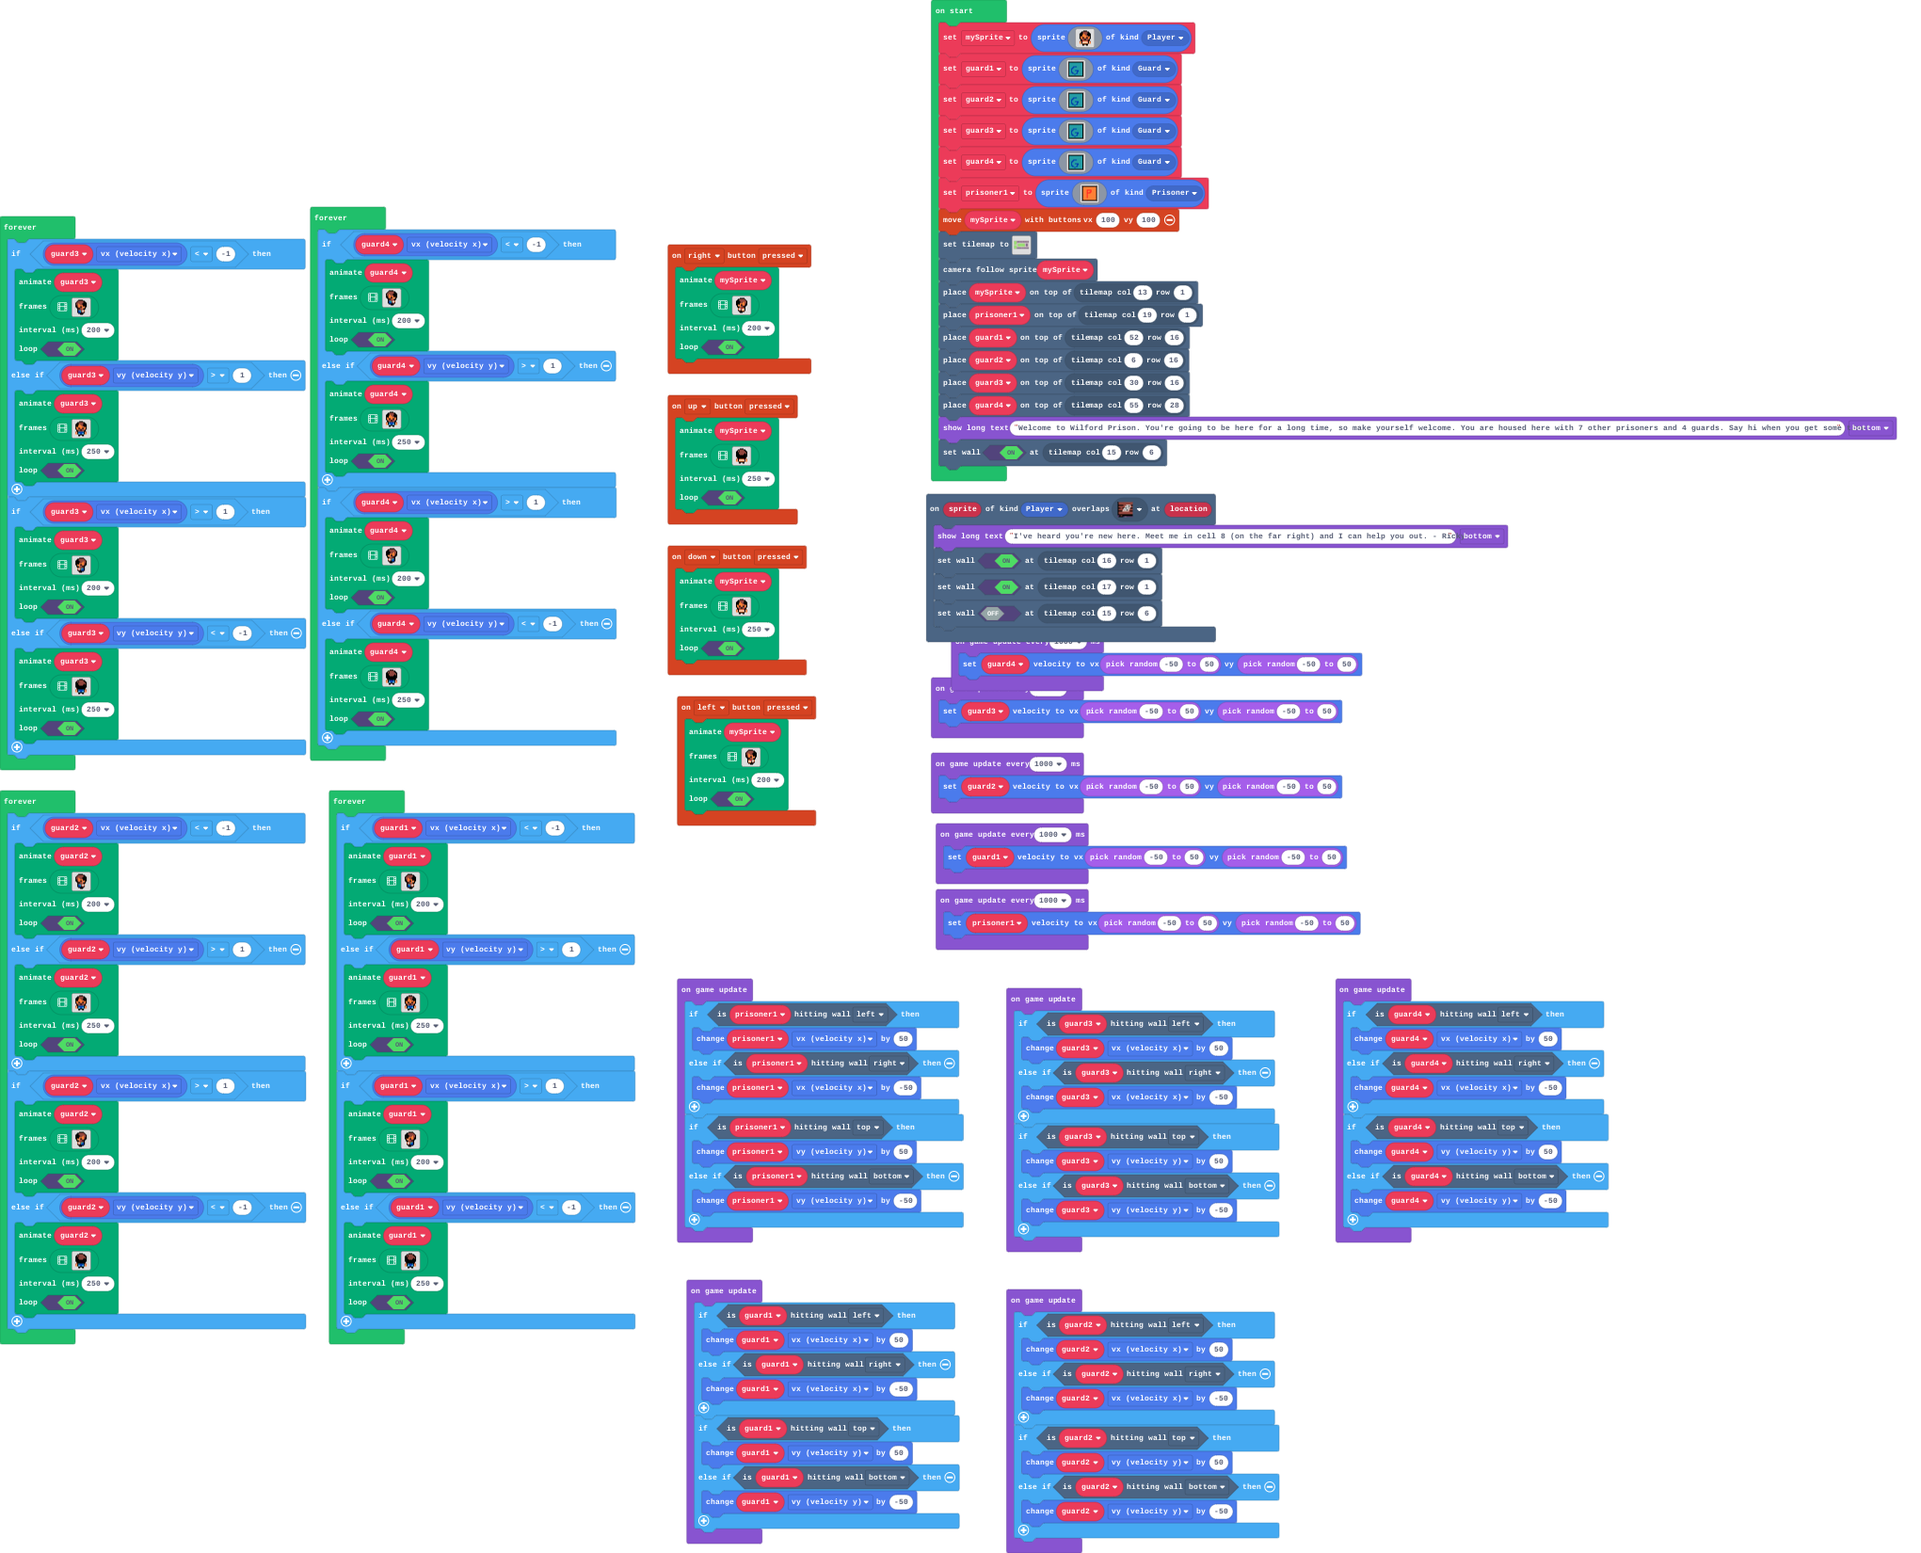
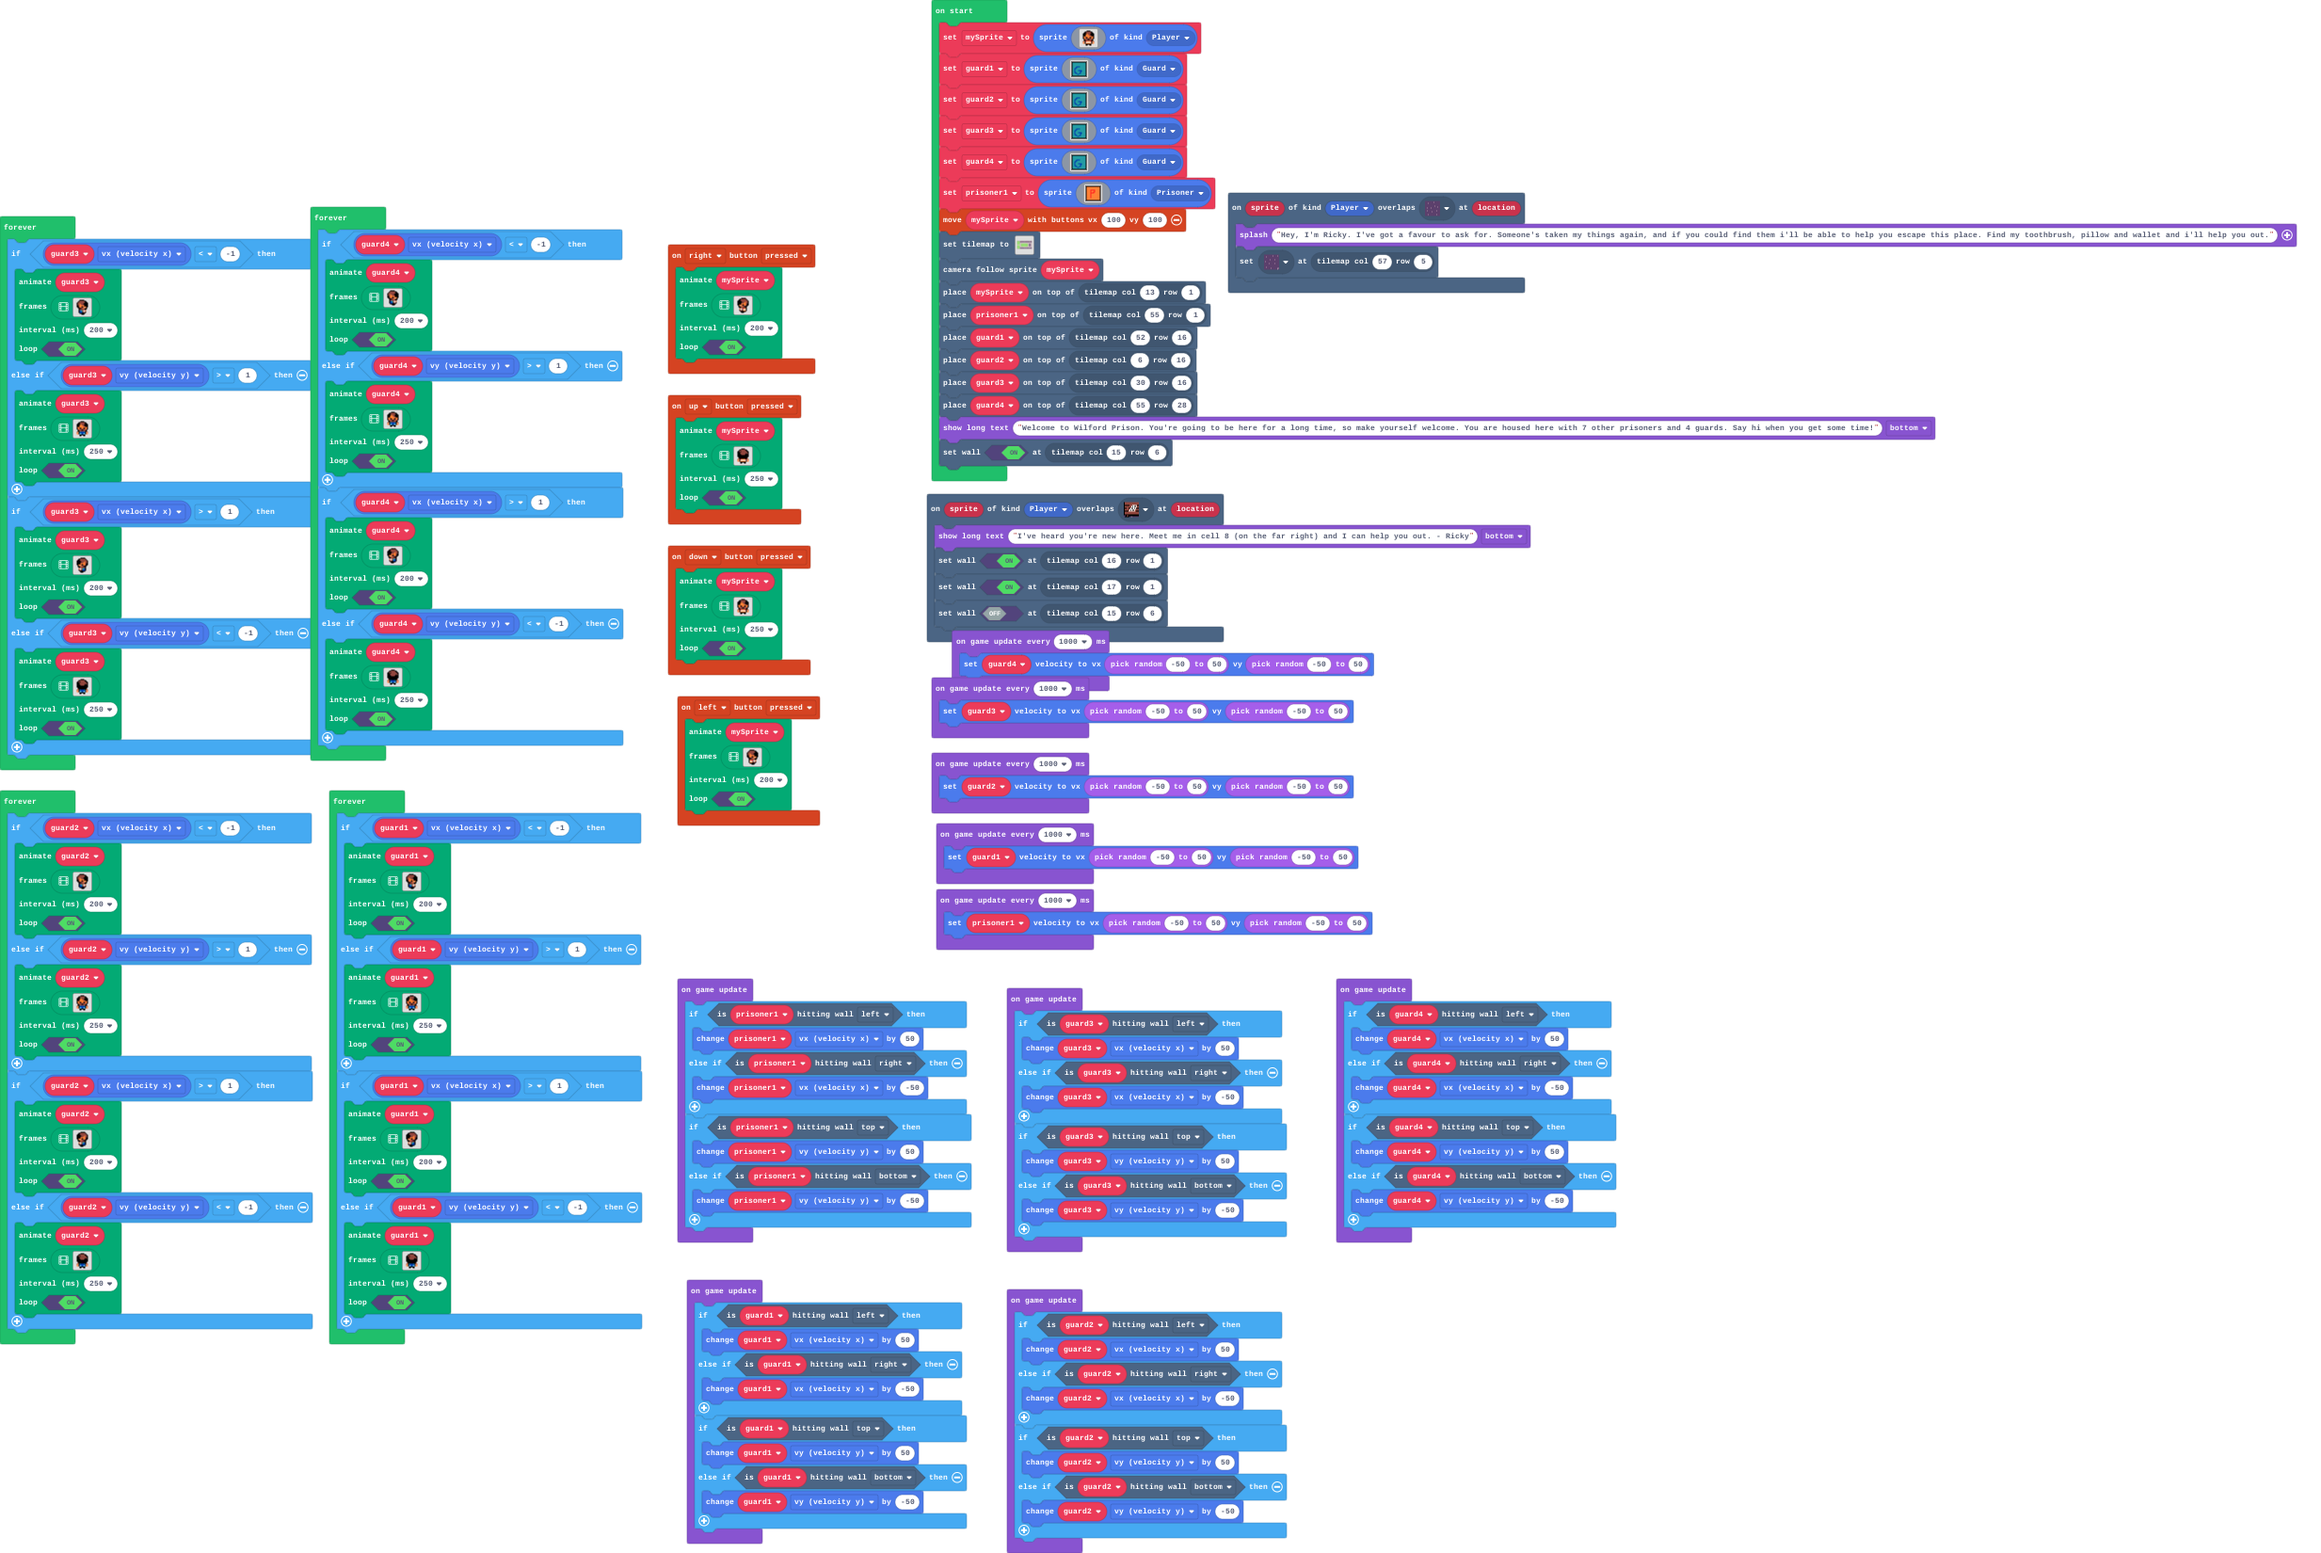
Updates

diff --git a/tilemap.g.ts b/tilemap.g.ts
@@ -66,6 +66,8 @@ namespace myTiles {
     export const tile30 = image.ofBuffer(hex``);
     //% fixedInstance jres blockIdentity=images._tile
     export const tile32 = image.ofBuffer(hex``);
+    //% fixedInstance jres blockIdentity=images._tile
+    export const tile33 = image.ofBuffer(hex``);
 
     helpers._registerFactory("tilemap", function(name: string) {
         switch(helpers.stringTrim(name)) {
@@ -145,41 +147,6 @@ namespace myTiles {
 . . . . . . . . . . . . . . . . 
 . . . . . . . . . . . . . . . . 
 `, [myTiles.transparency16], TileScale.Sixteen);
-            case "level1":
[1 lines of base64/hex data omitted]
-2222222222222222222222222222222222222222222222222222222222222
-2...........2.....2.....2.....2.....2.....2.....2.....2.....2
-2...........2.....2.....2.....2.....2.....2.....2.....2.....2
-2...........2.....2.....2.....2.....2.....2.....2.....2.....2
-2...........2.....2.....2.....2.....2.....2.....2.....2.....2
-2...........2.....2.....2.....2.....2.....2.....2.....2.....2
-2...........222.22222.22222.22222.22222.22222.22222.22222.222
-2...........2...............................................2
-2...........2...............................................2
-2...........2...............................................2
-2...........2...2222.....................2222...222222222...2
-2...........2...2...........................2...2.......2...2
-2...........2...2...........................2...2.......2...2
-2...........2...2...........................2...2.......2...2
-2...........2...................................2.......2...2
-2.......................................................2...2
-2.......................................................2...2
-2.......................................................2...2
-2...........2...................................2.......2...2
-2...........2...2...........................2...2.......2...2
-2...........2...2...........................2...2.......2...2
-2...........2...2...........................2...2.......2...2
-2...........2...2222.....................2222...222222222...2
-2...........2...............................................2
-2...........2...............................................2
-2...........2...............................................2
-2...........222222222...22222222222.2222222..222222222..22222
-2...........2...................2.....2..........2..........2
-2...........2...................2.....2..........2..........2
-2...........2...................2.....2..........2..........2
-2...........2...................2.....2..........2..........2
-2222222222222222222222222222222222222222222222222222222222222
-`, [myTiles.transparency16,myTiles.tile9,myTiles.tile13,myTiles.tile16,myTiles.tile17,myTiles.tile20,myTiles.tile21,myTiles.tile7,myTiles.tile8,sprites.castle.tileGrass1,myTiles.tile10,myTiles.tile11,myTiles.tile12,myTiles.tile15,myTiles.tile6,myTiles.tile23,sprites.dungeon.darkGroundNorthWest1,sprites.dungeon.floorLight4,sprites.castle.tileGrass3,sprites.castle.tileGrass2,sprites.dungeon.floorLightMoss,sprites.dungeon.floorLight5,sprites.dungeon.floorLight1,myTiles.tile25,myTiles.tile26,myTiles.tile27,myTiles.tile28,myTiles.tile29,myTiles.tile31,myTiles.tile30,myTiles.tile32], TileScale.Sixteen);
             case "level6":
             case "level6":return tiles.createTilemap(hex`1000100000000000000000000000000000000000000000000000000000000000000000000000000000000000000000000000000000000000000000000000000000000000000000000000000000000000000000000000000000000000000000000000000000000000000000000000000000000000000000000000000000000000000000000000000000000000000000000000000000000000000000000000000000000000000000000000000000000000000000000000000000000000000000000000000000000000000000000000000000000000000000000000000000000000000000000000000000000000000000000000000000000000000000000000000000000000`, img`
 . . . . . . . . . . . . . . . . 
@@ -218,6 +185,41 @@ namespace myTiles {
 . . . . . . . . . . . . . . . . 
 . . . . . . . . . . . . . . . . 
 `, [myTiles.transparency16], TileScale.Sixteen);
+            case "level1":
[1 lines of base64/hex data omitted]
+2222222222222222222222222222222222222222222222222222222222222
+2...........2.....2.....2.....2.....2.....2.....2.....2.....2
+2...........2.....2.....2.....2.....2.....2.....2.....2.....2
+2...........2.....2.....2.....2.....2.....2.....2.....2.....2
+2...........2.....2.....2.....2.....2.....2.....2.....2.....2
+2...........2.....2.....2.....2.....2.....2.....2.....2.....2
+2...........222.22222.22222.22222.22222.22222.22222.22222.222
+2...........2...............................................2
+2...........2...............................................2
+2...........2...............................................2
+2...........2...2222.....................2222...222222222...2
+2...........2...2...........................2...2.......2...2
+2...........2...2...........................2...2.......2...2
+2...........2...2...........................2...2.......2...2
+2...........2...................................2.......2...2
+2.......................................................2...2
+2.......................................................2...2
+2.......................................................2...2
+2...........2...................................2.......2...2
+2...........2...2...........................2...2.......2...2
+2...........2...2...........................2...2.......2...2
+2...........2...2...........................2...2.......2...2
+2...........2...2222.....................2222...222222222...2
+2...........2...............................................2
+2...........2...............................................2
+2...........2...............................................2
+2...........222222222...22222222222.2222222..222222222..22222
+2...........2...................2.....2..........2..........2
+2...........2...................2.....2..........2..........2
+2...........2...................2.....2..........2..........2
+2...........2...................2.....2..........2..........2
+2222222222222222222222222222222222222222222222222222222222222
+`, [myTiles.transparency16,myTiles.tile9,myTiles.tile13,myTiles.tile16,myTiles.tile17,myTiles.tile20,myTiles.tile21,myTiles.tile7,myTiles.tile8,sprites.castle.tileGrass1,myTiles.tile10,myTiles.tile11,myTiles.tile12,myTiles.tile15,myTiles.tile6,myTiles.tile23,sprites.dungeon.darkGroundNorthWest1,sprites.dungeon.floorLight4,sprites.castle.tileGrass3,sprites.castle.tileGrass2,sprites.dungeon.floorLightMoss,sprites.dungeon.floorLight5,sprites.dungeon.floorLight1,myTiles.tile25,myTiles.tile26,myTiles.tile27,myTiles.tile28,myTiles.tile29,myTiles.tile31,myTiles.tile30,myTiles.tile32,myTiles.tile33], TileScale.Sixteen);
         }
         return null;
     })
@@ -289,6 +291,8 @@ namespace myTiles {
             case "tile30":return tile30;
             case "myTile29":
             case "tile32":return tile32;
+            case "myTile30":
+            case "tile33":return tile33;
         }
         return null;
     })

diff --git a/main.ts b/main.ts
@@ -244,6 +244,10 @@ controller.down.onEvent(ControllerButtonEvent.Pressed, function () {
     true
     )
 })
+scene.onOverlapTile(SpriteKind.Player, assets.tile`myTile30`, function (sprite, location) {
+    game.splash("Hey, I'm Ricky. I've got a favour to ask for. Someone's taken my things again, and if you could find them i'll be able to help you escape this place. Find my toothbrush, pillow and wallet and i'll help you out.")
+    tiles.setTileAt(tiles.getTileLocation(57, 5), sprites.dungeon.darkGroundNorthWest1)
+})
 let mySprite: Sprite = null
 mySprite = sprites.create(assets.image`Sprite`, SpriteKind.Player)
 let guard1 = sprites.create(img`
@@ -340,7 +344,7 @@ controller.moveSprite(mySprite, 100, 100)
 tiles.setTilemap(tilemap`level1`)
 scene.cameraFollowSprite(mySprite)
 tiles.placeOnTile(mySprite, tiles.getTileLocation(13, 1))
-tiles.placeOnTile(prisoner1, tiles.getTileLocation(19, 1))
+tiles.placeOnTile(prisoner1, tiles.getTileLocation(55, 1))
 tiles.placeOnTile(guard1, tiles.getTileLocation(52, 16))
 tiles.placeOnTile(guard2, tiles.getTileLocation(6, 16))
 tiles.placeOnTile(guard3, tiles.getTileLocation(30, 16))
